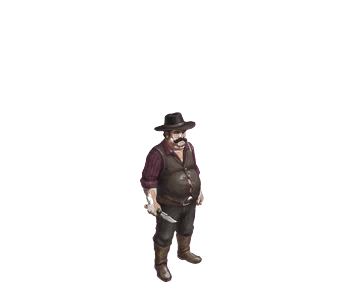
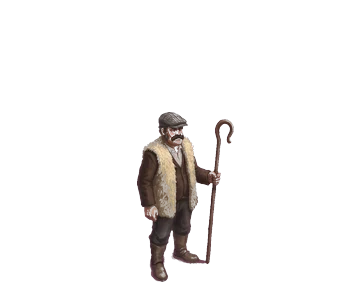
Portuguese Life: Julião the shepherd against the lithium mine
A new game on the Romanian Life engine. Julião, a mountain shepherd
with a flat cap, sideburns and a sheepskin vest, fights the policeman
on his donkey with his crook, which hits harder and reaches further
than the knife. There is no axe. The face-off is about the land taken
for lithium, in English with Portuguese below, over new paintings of a
granite village. The tunes become a vira in 6/8 with bombo and
ferrinhos, with a fado-like descent under the dialogue.

Changed region(s): [[0.3824, 0.36, 0.7059, 0.96]]

diff --git a/client/src/music.ts b/client/src/music.ts
@@ -1,12 +1,14 @@
 /* Three short looping tunes in an arcade style, played by a small Web Audio sequencer.
-   They are original, written in A Phrygian dominant (A Bb C# D E F G) for a Balkan flavour. */
+   They are original, in a Portuguese folk spirit: a vira in 6/8 on an accordion-like lead with
+   bombo and ferrinhos, and a fado-style descending cadence for the face-off.
+   Every step is an eighth note; the 6/8 tunes loop over bars of six steps. */
 
 import { audioContext } from "./sound.ts";
 
 type Note = number | null;
 type Track = {
   bpm: number;
-  /** One entry per sixteenth note; every channel loops over its own length. */
+  /** One entry per step; every channel loops over its own length. */
   lead?: Note[];
   bass?: Note[];
   pad?: Note[];
@@ -18,52 +20,53 @@ type Track = {
 
 const _ = null;
 // MIDI numbers: A2 = 45, A3 = 57, A4 = 69.
-const A2 = 45, Bb2 = 46, D3 = 50, E3 = 52, F3 = 53, G3 = 55, A3 = 57;
-const Bb3 = 58, Cs4 = 61, D4 = 62, E4 = 64, F4 = 65, G4 = 67;
-const A4 = 69, Bb4 = 70, Cs5 = 73, D5 = 74, E5 = 76, F5 = 77;
-const A1 = 33, Bb1 = 34;
+const E1 = 28, F1 = 29, G1 = 31, A1 = 33;
+const G2 = 43, A2 = 45, C3 = 48, D3 = 50, E3 = 52, F3 = 53;
+const Gs3 = 56, G3 = 55, A3 = 57, B3 = 59, C4 = 60, D4 = 62, E4 = 64, F4 = 65, Fs4 = 66, G4 = 67;
+const A4 = 69, B4 = 71, C5 = 72, D5 = 74, E5 = 76;
 
 export const TRACKS: Record<string, Track> = {
-  /* The opening shot: a plain village tune on a soft square lead. */
+  /* The opening shot: a gentle vira in G. */
   intro: {
-    bpm: 112,
-    leadWave: "square",
+    bpm: 90,
+    leadWave: "sawtooth",
     lead: [
-      A4, _, _, Cs5, D5, _, E5, _, F5, _, E5, _, D5, _, Cs5, _,
-      D5, _, Cs5, _, Bb4, _, A4, _, Bb4, _, A4, _, A4, _, _, _,
+      G4, _, B4, D5, _, B4, C5, _, A4, Fs4, _, A4,
+      G4, _, B4, D5, _, E5, D5, _, C5, B4, _, A4,
+      B4, _, G4, A4, _, Fs4, G4, _, _, G4, _, _,
     ],
-    bass: [A2, _, _, _, E3, _, _, _, A2, _, _, _, E3, _, _, _, D3, _, _, _, A2, _, _, _, Bb2, _, _, _, A2, _, _, _],
-    hat: "x...x...x...x...",
+    bass: [G2, _, _, D3, _, _, D3, _, _, A2, _, _, G2, _, _, D3, _, _, D3, _, _, A2, _, _, G2, _, _, D3, _, _, G2, _, _, _, _, _],
+    kick: "x.....",
+    hat: "...x..",
   },
-  /* The face-off: a low drone, a creeping semitone and a heartbeat. */
+  /* The face-off: a slow fado-style descent over a low drone, and a heartbeat. */
   tension: {
-    bpm: 76,
+    bpm: 70,
     leadWave: "triangle",
-    pad: [A1, _, _, _, _, _, _, _, _, _, _, _, _, _, _, _, Bb1, _, _, _, _, _, _, _, _, _, _, _, _, _, _, _],
-    bass: [A2, _, Bb2, _, A2, _, Bb2, _, A2, _, Bb2, _, A2, _, Bb2, _],
     lead: [
-      _, _, _, _, _, _, _, _, E5, _, _, _, F5, _, _, _,
-      _, _, _, _, _, _, _, _, Cs5, _, _, _, D5, _, _, _,
+      A3, C4, E4, A4, E4, C4, G3, B3, D4, G4, D4, B3,
+      F3, A3, C4, F4, C4, A3, E3, Gs3, B3, E4, B3, Gs3,
     ],
-    kick: "x..x............",
+    pad: [A1, _, _, _, _, _, G1, _, _, _, _, _, F1, _, _, _, _, _, E1, _, _, _, _, _],
+    kick: "x..x....................",
   },
-  /* The fight: a fast beat, a driving bass and a Balkan lead. */
+  /* The fight: a fast malhão with bombo and ferrinhos. */
   fight: {
-    bpm: 148,
-    leadWave: "square",
+    bpm: 120,
+    leadWave: "sawtooth",
     lead: [
-      A4, _, A4, Bb4, Cs5, _, A4, _, D5, _, Cs5, _, Bb4, _, A4, _,
-      E5, _, D5, _, Cs5, _, D5, _, Bb4, _, Cs5, _, A4, _, _, _,
-      A4, _, A4, Bb4, Cs5, _, A4, _, D5, _, E5, _, F5, _, E5, _,
-      D5, _, Cs5, _, Bb4, _, A4, _, G4, _, Bb4, _, A4, _, _, _,
+      G4, A4, B4, D5, _, B4, C5, _, A4, Fs4, _, D4,
+      G4, A4, B4, D5, _, E5, D5, _, C5, B4, _, A4,
+      B4, C5, D5, E5, _, D5, C5, _, B4, A4, _, Fs4,
+      G4, _, A4, B4, _, A4, G4, _, _, G4, _, _,
     ],
     bass: [
-      A2, _, A3, A2, _, A2, A3, _, A2, _, A3, A2, _, A2, Bb2, _,
-      A2, _, A3, A2, _, A2, A3, _, G3, _, F3, _, E3, _, Bb2, _,
+      G2, _, D3, G2, _, D3, D3, _, A2, D3, _, A2, G2, _, D3, G2, _, D3, D3, _, A2, D3, _, A2,
+      C3, _, G2, C3, _, G2, D3, _, A2, D3, _, A2, G2, _, D3, D3, _, A2, G2, _, D3, G2, _, _,
     ],
-    kick: "x.....x.x.......",
-    snare: "....x.......x...",
-    hat: "x.x.x.x.x.x.x.xx",
+    kick: "x..x..",
+    snare: "......x.....",
+    hat: "x.xx.x",
   },
 };
 

diff --git a/client/src/main.ts b/client/src/main.ts
@@ -35,27 +35,27 @@ const HOLD_MS = 280;
 const BOLT_REPEAT_MS = 560;
 const PICK_RADIUS = 58;
 const DEPTH_SCALE = 0.72;
-const ENEMY_NAMES: Record<string, string> = { cop: "POLIȚIST", donkey: "POLIȚIST" };
+const ENEMY_NAMES: Record<string, string> = { cop: "POLÍCIA", donkey: "POLÍCIA" };
 const ZOOM_SECONDS = 3.2;
 const FIGHT_ZOOM = 0.8;
 const TYPE_SPEED = 45;
-/* The face-off before the fight: English first, the Romanian under it. */
+/* The face-off before the fight: English first, the Portuguese under it. */
 const DIALOGUE = [
   {
-    who: "POLIȚIST", portrait: "portrait_donkey",
-    english: "Did you think nobody would notice the missing copper? You've got two choices: hand over every kilo of copper you stole, the easy way or the hard way. Your call.",
-    romanian: "Credeai că nu observă nimeni că lipsește cuprul? Ai două variante: îmi dai toate kilogramele de cupru pe care le-ai furat, de bunăvoie sau cu forța. Tu alegi.",
+    who: "POLÍCIA", portrait: "portrait_donkey",
+    english: "The council already warned you that you have to leave this land. We'll pay you the expropriation money. Lithium is needed for humanity.",
+    translation: "Já foste avisado pela câmara que tens de sair deste terreno. Vamos pagar-te o dinheiro da expropriação. O lítio é necessário para a humanidade.",
   },
   {
-    who: "VIRGILIU", portrait: "portrait_hero",
-    english: "I do shit on your elders.",
-    romanian: "Mă cac pe morții tăi.",
+    who: "JULIÃO", portrait: "portrait_hero",
+    english: "This land was given to me by my father, and it was my grandfather who gave it to him. Over my dead body.",
+    translation: "Este terreno foi-me dado pelo meu pai, e foi o meu avô que lho deu. Só por cima do meu cadáver.",
   },
 ];
 const STRIKE_MS = 250;
 const DYING_MS = 900;
 const ITEM_NAMES: Record<string, string> = {
-  sword: "Knife", axe: "Battle axe", potion_mana: "Mana potion", coins: "Gold coins",
+  sword: "Shepherd's crook", axe: "Battle axe", potion_mana: "Mana potion", coins: "Gold coins",
   ring: "Gold ring", helmet: "Helmet", pouch: "Leather pouch",
 };
 const manaFill = document.getElementById("mana-fill")!;
@@ -73,7 +73,7 @@ const talkScene = document.getElementById("talk-scene") as HTMLImageElement;
 const talkPortrait = document.getElementById("talk-portrait") as HTMLImageElement;
 const talkName = document.getElementById("talk-name")!;
 const talkEnglish = document.getElementById("talk-english")!;
-const talkRomanian = document.getElementById("talk-romanian")!;
+const talkTranslation = document.getElementById("talk-translation")!;
 const banner = document.getElementById("banner")!;
 const bannerText = document.getElementById("banner-text")!;
 const bannerHint = document.getElementById("banner-hint")!;
@@ -153,7 +153,7 @@ function updateTalk(dt: number) {
 
   typed = Math.min(current.english.length, typed + dt * TYPE_SPEED);
   talkEnglish.textContent = current.english.slice(0, Math.floor(typed));
-  talkRomanian.textContent = typed >= current.english.length ? current.romanian : "";
+  talkTranslation.textContent = typed >= current.english.length ? current.translation : "";
 }
 
 /* Returns true while the intro owns the camera and the controls. */
@@ -190,7 +190,7 @@ function updateIntro(dt: number, self: PlayerView | undefined, enemy: EnemyView 
 /* Browsers may hold sound back until the first click or key; the music is queued anyway and starts then. */
 unlockSound();
 playMusic("intro");
-showBanner("ROMANIAN LIFE", "", 2.6, true);
+showBanner("PORTUGUESE LIFE", "", 2.6, true);
 
 function checkEnd(phase: string) {
   if (stage !== "fight" || (phase !== "won" && phase !== "lost")) return;

diff --git a/client/index.html b/client/index.html
@@ -3,7 +3,7 @@
   <head>
     <meta charset="utf-8" />
     <meta name="viewport" content="width=device-width, initial-scale=1, maximum-scale=1, user-scalable=no" />
-    <title>Romanian Life</title>
+    <title>Portuguese Life</title>
     <link rel="preconnect" href="https://fonts.googleapis.com" />
     <link href="https://fonts.googleapis.com/css2?family=Press+Start+2P&family=Cinzel+Decorative:wght@700&display=swap" rel="stylesheet" />
     <style>
@@ -37,7 +37,7 @@
       #talk-portrait { width: clamp(72px, 12vw, 120px); height: clamp(72px, 12vw, 120px); border: 3px solid #fff; outline: 2px solid #000; }
       #talk-name { font: 14px "Press Start 2P", monospace; color: #ffd23a; text-shadow: 2px 2px 0 #000; margin-bottom: 10px; }
       #talk-english { font: 600 clamp(16px, 2.2vw, 22px)/1.4 Georgia, serif; min-height: 2.8em; }
-      #talk-romanian { font: italic clamp(14px, 1.8vw, 18px)/1.4 Georgia, serif; color: #d9c48f; margin-top: 8px; min-height: 1.4em; }
+      #talk-translation { font: italic clamp(14px, 1.8vw, 18px)/1.4 Georgia, serif; color: #d9c48f; margin-top: 8px; min-height: 1.4em; }
       #talk-next { position: absolute; right: 12px; bottom: 8px; font: 10px "Press Start 2P", monospace; color: #e8d7a8; animation: blink 1s steps(2) infinite; }
       /* On a phone held upright: the tall painting, and a dialogue box sized to the screen width,
          with portrait and text growing with it. Kept after the general rules so it wins. */
@@ -49,7 +49,7 @@
         #talk-box > img { position: absolute; top: -10vw; left: 4vw; width: 18vw; height: 18vw; }
         #talk-name { margin: 0 0 3.5vw 22vw; font-size: 3.8vw; }
         #talk-english { font-size: 4.5vw; line-height: 1.3; min-height: 0; }
-        #talk-romanian { font-size: 3.8vw; line-height: 1.3; min-height: 0; margin-top: 2vw; }
+        #talk-translation { font-size: 3.8vw; line-height: 1.3; min-height: 0; margin-top: 2vw; }
         #talk-next { font-size: 2.8vw; bottom: 2.5vw; right: 4vw; }
       }
       @keyframes blink { 50% { opacity: 0; } }
@@ -86,7 +86,7 @@
       <div class="fighter">
         <img class="portrait" id="hero-portrait" alt="" />
         <div>
-          <div class="label"><span>VIRGILIU</span><span class="score" id="hero-score">000000</span></div>
+          <div class="label"><span>JULIÃO</span><span class="score" id="hero-score">000000</span></div>
           <div class="bar"><div class="lag" id="hero-lag"></div><div class="fill" id="hero-fill"></div></div>
           <div id="mana"><div id="mana-fill"></div></div>
         </div>
@@ -99,16 +99,16 @@
         </div>
       </div>
     </div>
-    <div id="brand">Romanian Life</div>
+    <div id="brand">Portuguese Life</div>
     <section id="talk" hidden>
-      <img class="talk-scene" id="talk-scene" alt="Virgiliu and the policeman on his donkey, face to face in the village" />
-      <img class="talk-scene" id="talk-scene-tall" alt="Virgiliu and the policeman on his donkey, face to face in the village" />
+      <img class="talk-scene" id="talk-scene" alt="Julião and the policeman on his donkey, face to face in the village" />
+      <img class="talk-scene" id="talk-scene-tall" alt="Julião and the policeman on his donkey, face to face in the village" />
       <div id="talk-box">
         <img id="talk-portrait" alt="" />
         <div>
           <div id="talk-name"></div>
           <div id="talk-english"></div>
-          <div id="talk-romanian" lang="ro"></div>
+          <div id="talk-translation" lang="pt"></div>
         </div>
         <div id="talk-next">click ▸</div>
       </div>

diff --git a/client/src/render.ts b/client/src/render.ts
@@ -90,7 +90,7 @@ export async function loadArt(base: string) {
       ...HOTSPOTS.map((hotspot) => hotspot.image.sprite),
       ...SPRITES.map((sprite) => sprite.name),
       ...ITEM_KINDS.map((kind) => `item_${kind}`),
-      ...HERO_SHEETS.flatMap((sheet) => [`hero_${sheet}`, `hero_axe_${sheet}`]),
+      ...HERO_SHEETS.map((sheet) => `hero_${sheet}`),
       ...ENEMY_KINDS.flatMap((kind) => ["walk_front", "walk_back", "attack"].map((sheet) => `enemy_${kind}_${sheet}`)),
       "enemy_donkey_tired",
     ]),
@@ -307,7 +307,7 @@ export class Renderer {
     const dy = Math.cos(hero.aim);
     const facesCamera = dy >= 0;
     const slashing = hero.slashTime >= 0;
-    const prefix = hero.weapon === "axe" ? "hero_axe" : "hero";
+    const prefix = "hero";
     const action = slashing ? "slash" : hero.moving ? "walk" : "idle";
     const sheet = this.art.sprites.get(`${prefix}_${action}_${facesCamera ? "front" : "back"}`)!;
     const stride = hero.running ? RUN_STRIDE : WALK_STRIDE;

diff --git a/server/src/arena.ts b/server/src/arena.ts
@@ -35,7 +35,8 @@ const BOLT_COST = 15;
 const POTION_MANA = 50;
 
 const WEAPONS: Record<string, { range: number; knockback: number; cooldown: number; damage: number }> = {
-  sword: { range: SLASH_RANGE, knockback: SLASH_KNOCKBACK, cooldown: SLASH_COOLDOWN_MS, damage: 12 },
+  /* The id stays "sword"; in this game it is Julião's crook, longer and heavier than a knife. */
+  sword: { range: 145, knockback: 1000, cooldown: 600, damage: 16 },
   axe: { range: 145, knockback: 1250, cooldown: 800, damage: 22 },
 };
 const FIRE_DAMAGE = 15;
@@ -135,7 +136,7 @@ export class Arena extends Room {
 
   onJoin(client: Client) {
     const player = new Player();
-    player.name = "VIRGILIU";
+    player.name = "JULIÃO";
     player.hue = (this.nextPlayer * 0.381966) % 1;
     player.x = SPAWN.x;
     player.z = SPAWN.y;

diff --git a/client/src/sound.ts b/client/src/sound.ts
@@ -45,7 +45,7 @@ function whoosh(from: number, to: number, seconds: number, volume: number, delay
 }
 
 export const sounds = {
-  knife: () => whoosh(5200, 1400, 0.16, 0.5),
+  knife: () => whoosh(2400, 500, 0.26, 0.7),
   axe: () => whoosh(1600, 380, 0.3, 0.75),
   /** The baton going up and swinging down. */
   baton: (delayMs: number) => whoosh(900, 260, 0.24, 0.6, Math.max(0, delayMs - 180) / 1000),

diff --git a/server/src/state.ts b/server/src/state.ts
@@ -16,7 +16,7 @@ export class Player extends Schema {
   @type("number") kills = 0;
   @type("string") area = "city";
   @type("string") weapon = "sword";
-  @type(["string"]) inventory = new ArraySchema<string>("sword", "axe");
+  @type(["string"]) inventory = new ArraySchema<string>("sword");
 }
 
 export class GroundItem extends Schema {

diff --git a/tools/build_art.py b/tools/build_art.py
@@ -3,7 +3,7 @@
 Usage: build_art.py SOURCE_DIR REPO_DIR
 Sources: vil/ground.png, vil/objects.png, items.png, walk_front, walk_back,
 slash_front and slash_back (each also with an axe_ prefix), and the walk
-cycles pw_front, pw_back, pa_front and pa_back. The current hero's sheets live in h3/,
+cycles pw_front, pw_back, pa_front and pa_back. The current hero's sheets live in ju/,
 the police in cop/.
 """
 import json
@@ -159,25 +159,26 @@ def slash_sheet(name, out, standing_height):
 
 
 def hero():
-    """The hero with the hat: walks over motion capture, attacks, idles, with knife or axe."""
-    folder = "h3/"
+    """Julião the shepherd: walks over motion capture, swings his crook, idles."""
+    global KEY_PINK
+    KEY_PINK = True  # the thin crook picks up a magenta fringe otherwise
+    folder = "ju/"
     walk = grid_frames(f"{folder}pw_front.png")[0]
     ys = np.where(walk[1] > 0.5)[0]
     walk_scale = HERO_HEIGHT / (ys.max() - ys.min())
 
-    for walk_prefix, slash_prefix, out in (("pw", "", "hero"), ("pa", "axe_", "hero_axe")):
+    for walk_prefix, slash_prefix, out in (("pw", "", "hero"),):
         walk_sheet(f"{folder}{walk_prefix}_front.png", f"{out}_walk_front", walk_scale, False)
         walk_sheet(f"{folder}{walk_prefix}_back.png", f"{out}_walk_back", walk_scale, False)
         slash_sheet(f"{folder}{slash_prefix}slash_front.png", f"{out}_slash_front", HERO_HEIGHT)
         # The painted back-facing attacks turned to face the camera, so both directions use the front one.
         slash_sheet(f"{folder}{slash_prefix}slash_front.png", f"{out}_slash_back", HERO_HEIGHT)
 
-    for side in ("front", "back"):
-        reference = frames_of(f"{folder}ref_{side}.png", 1)[0]
+    for side, source in (("front", "ref_front"), ("back", "ref_back_idle")):
+        reference = frames_of(f"{folder}{source}.png", 1)[0]
         ys = np.where(reference[1] > 0.5)[0]
         single_sheet(reference, f"hero_idle_{side}", HERO_HEIGHT / (ys.max() - ys.min()))
-        axe = grid_frames(f"{folder}pa_{side}.png")[0]
-        single_sheet(axe, f"hero_axe_idle_{side}", walk_scale)
+    KEY_PINK = False
 
 
 # Item centres on a 1376 by 386 preview, and the height each one is drawn at.
@@ -300,22 +301,22 @@ def portrait(name, out, head_share):
 
 def talk_scene():
     """The painted face-off shown under the dialogue, and the two portraits cut from it."""
-    painting = Image.open(f"{SOURCE}/cop/talk.png").convert("RGB")
+    painting = Image.open(f"{SOURCE}/ju/talk.png").convert("RGB")
     painting.resize((1600, round(1600 * painting.height / painting.width)), Image.LANCZOS).save(
         f"{ART}/scene_talk.webp", quality=86, method=6)
-    tall = Image.open(f"{SOURCE}/cop/talk_tall.png").convert("RGB")
+    tall = Image.open(f"{SOURCE}/ju/talk_tall.png").convert("RGB")
     tall.resize((900, round(900 * tall.height / tall.width)), Image.LANCZOS).save(
         f"{ART}/scene_talk_tall.webp", quality=86, method=6)
     scale = painting.width / 1100
     half = 62
     # Face centres, measured on an 1100 wide preview of the painting.
-    for name, (x, y) in {"donkey": (368, 112), "hero": (778, 152)}.items():
+    for name, (x, y) in {"donkey": (445, 112), "hero": (770, 192)}.items():
         box = [round(v * scale) for v in (x - half, y - half, x + half, y + half)]
         painting.crop(box).resize((160, 160), Image.LANCZOS).save(f"{ART}/portrait_{name}.webp", quality=90, method=6)
 
 
 def knife_icon():
-    rgb = load("h3/knife.png")
+    rgb = load("ju/crook.png")
     pink = np.minimum(rgb[..., 0], rgb[..., 2]) - rgb[..., 1]
     labels, found = ndimage.label(ndimage.binary_opening(pink < 60))
     sizes = ndimage.sum(np.ones_like(labels), labels, range(1, found + 1))
@@ -364,7 +365,7 @@ def ground():
 
 def place(sprites, width, height, tile_w, tile_h):
     random.seed(1998)
-    # Virgiliu and the policeman start face to face on the square where the four tiles meet.
+    # Julião and the policeman start face to face on the square where the four tiles meet.
     spawn = (round(width / 2 + 230), round(height / 2))
     gate = (round(width / 2 - 230), round(height / 2 + 20))
     by_kind = {}
